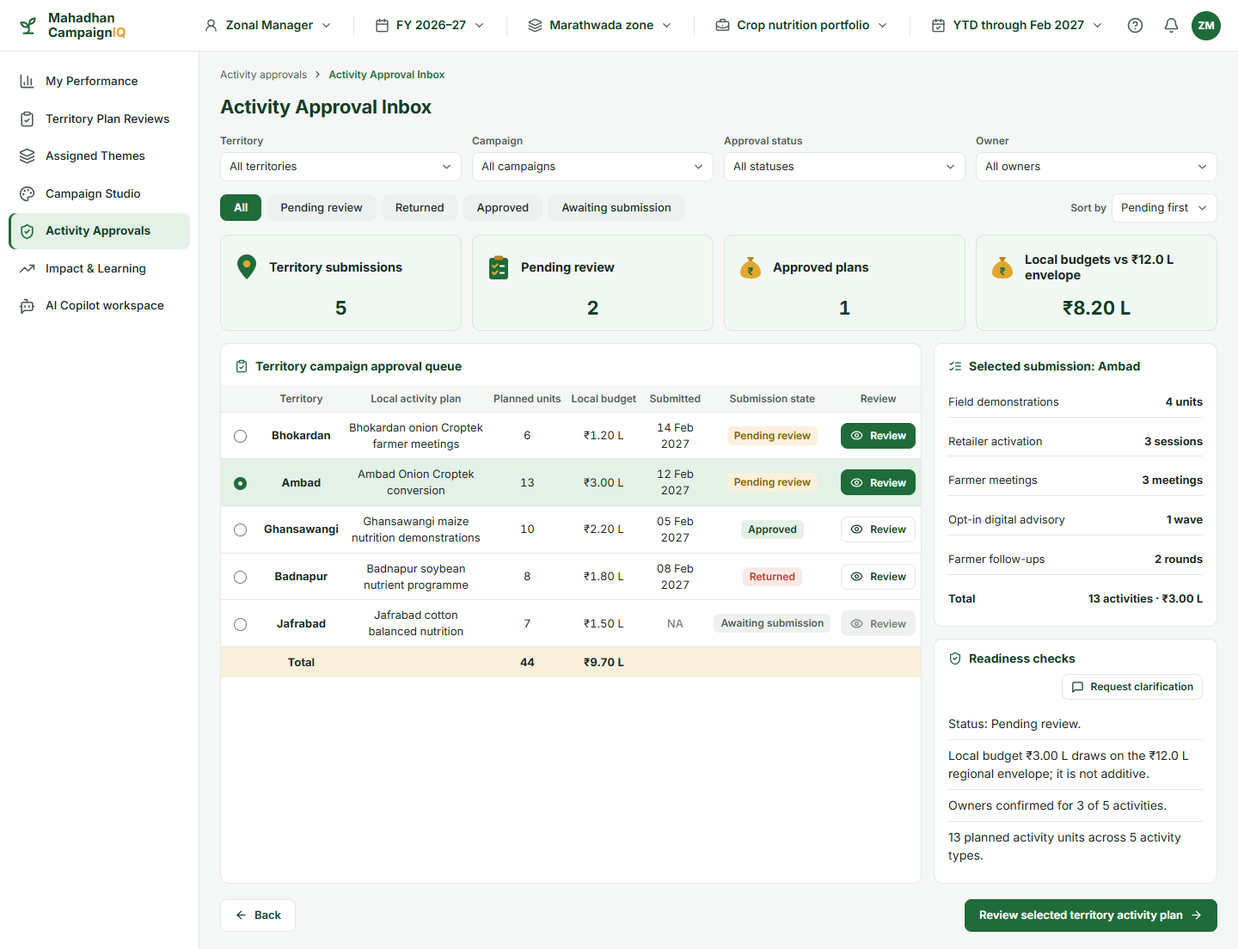
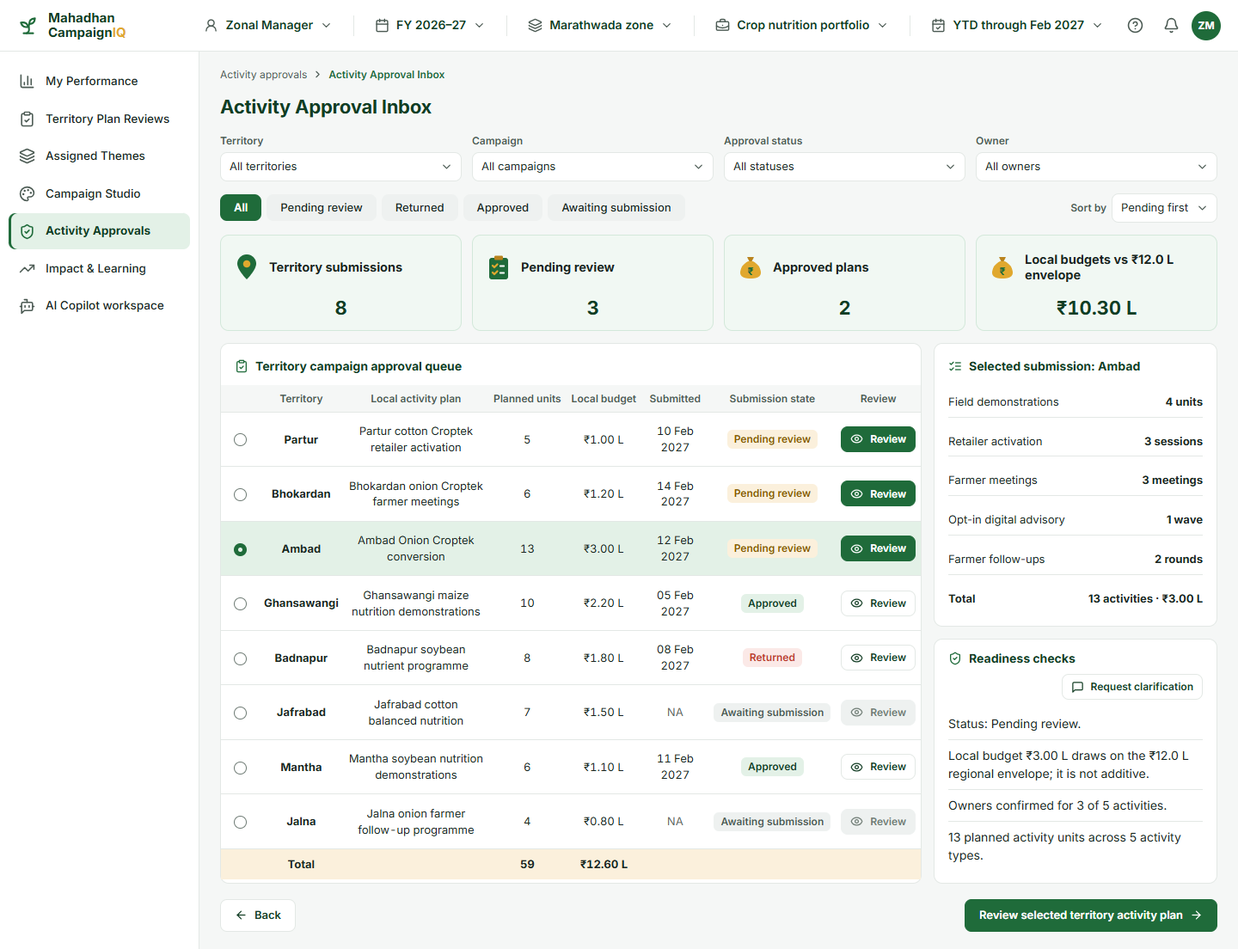
Zone: 8 Jalna territories, fuller approval queue

diff --git a/campaigniq-v3/src/data/zm.ts b/campaigniq-v3/src/data/zm.ts
@@ -3,7 +3,7 @@
  * business case, activity approvals and impact. Figures shared with BH and FSM are read from bh.ts / fsm.ts.
  * Money in ₹ lakh unless noted.
  */
-import type { ZmTerritoryId } from '../routes';
+import type { FsmTerritoryId, ZmTerritoryId } from '../routes';
 import { AMBAD, ambadMetrics, businessCase, campaignById, CONTRIBUTION_MARGIN, netRoi, territoryById } from './bh';
 import { ratio, sum } from './format';
 import { ACTIVITY_DEFAULTS, ACTIVITY_UNITS, budgetMix, CAMPAIGN_ACTIVITIES, campaignFunnel, cropLastYear, cropPlan, FSM_CROPS, impactSummary, interventionEffectiveness, ONION_VILLAGE_PLAN } from './fsm';
@@ -17,19 +17,25 @@ export const ZM_SCOPES: { id: ZmScope; label: string }[] = [
   { id: 'badnapur', label: 'Badnapur' },
   { id: 'jafrabad', label: 'Jafrabad' },
   { id: 'bhokardan', label: 'Bhokardan' },
+  { id: 'partur', label: 'Partur' },
+  { id: 'mantha', label: 'Mantha' },
+  { id: 'jalna', label: 'Jalna' },
 ];
 
 export const ZM_PORTFOLIOS = [{ id: 'crop-nutrition', label: 'Crop nutrition portfolio' }] as const;
 export type ZmPortfolio = (typeof ZM_PORTFOLIOS)[number]['id'];
 
 export const ZONE_NAME = 'Marathwada zone';
-export const ZM_TERRITORY_IDS: ZmTerritoryId[] = ['ambad', 'ghansawangi', 'badnapur', 'jafrabad', 'bhokardan'];
-const ZM_NAME: Record<ZmTerritoryId, string> = { ambad: 'Ambad', ghansawangi: 'Ghansawangi', badnapur: 'Badnapur', jafrabad: 'Jafrabad', bhokardan: 'Bhokardan' };
+export const ZM_TERRITORY_IDS: ZmTerritoryId[] = ['ambad', 'ghansawangi', 'badnapur', 'jafrabad', 'bhokardan', 'partur', 'mantha', 'jalna'];
+const ZM_NAME: Record<ZmTerritoryId, string> = { ambad: 'Ambad', ghansawangi: 'Ghansawangi', badnapur: 'Badnapur', jafrabad: 'Jafrabad', bhokardan: 'Bhokardan', partur: 'Partur', mantha: 'Mantha', jalna: 'Jalna' };
 export const zmTerritoryName = (t: ZmTerritoryId) => ZM_NAME[t];
+/** Named Field Sales Managers where known. */
+const FSM_NAMES: Partial<Record<ZmTerritoryId, string>> = { partur: 'A. Deshmukh', mantha: 'K. More', jalna: 'V. Shinde' };
+export const fsmOwner = (t: ZmTerritoryId) => `Field Sales Manager · ${ZM_NAME[t]}${FSM_NAMES[t] ? ` (${FSM_NAMES[t]})` : ''}`;
 
 // ---------------------------------------------------------------- zone territories (all-product ABP, from BH)
 /** Last-year all-product sales; Ambad, Ghansawangi and Badnapur match the Field Sales Manager cluster. */
-const ZONE_LAST_YEAR: Record<ZmTerritoryId, number> = { ambad: 320, ghansawangi: 280, badnapur: 200, jafrabad: 150, bhokardan: 135 };
+const ZONE_LAST_YEAR: Record<ZmTerritoryId, number> = { ambad: 320, ghansawangi: 280, badnapur: 200, jafrabad: 150, bhokardan: 135, partur: 78, mantha: 70, jalna: 80 };
 
 export const zoneTerritories = () => ZM_TERRITORY_IDS.map((id) => {
   const t = territoryById(id)!;
@@ -53,11 +59,11 @@ export const CATEGORIES: { id: CategoryId; name: string }[] = [
   { id: 'specialty', name: 'Specialty Nutrition' },
 ];
 
-/** Portfolio split by territory (Ambad, Ghansawangi, Badnapur, Jafrabad, Bhokardan); rows sum to the zone figures. */
+/** Portfolio split by territory (Ambad, Ghansawangi, Badnapur, Jafrabad, Bhokardan, Partur, Mantha, Jalna); rows sum to the zone figures. */
 const PORTFOLIO_SPLIT: Record<CategoryId, { lastYear: number[]; abp: number[]; ytd: number[] }> = {
-  croptek: { lastYear: [140, 38, 27, 20, 15], abp: [190, 50, 35, 25, 20], ytd: [162, 42, 29, 21, 16] },
-  'water-soluble': { lastYear: [38, 42, 29, 23, 18], abp: [45, 50, 35, 28, 22], ytd: [39, 43, 31, 25, 20] },
-  specialty: { lastYear: [22, 23, 18, 14, 13], abp: [25, 25, 20, 16, 14], ytd: [21, 22, 17, 14, 12] },
+  croptek: { lastYear: [140, 38, 27, 20, 15, 12, 10, 14], abp: [190, 50, 35, 25, 20, 16, 14, 18], ytd: [162, 42, 29, 21, 16, 14, 12, 15] },
+  'water-soluble': { lastYear: [38, 42, 29, 23, 18, 10, 9, 9], abp: [45, 50, 35, 28, 22, 12, 11, 11], ytd: [39, 43, 31, 25, 20, 11, 10, 10] },
+  specialty: { lastYear: [22, 23, 18, 14, 13, 6, 5, 6], abp: [25, 25, 20, 16, 14, 7, 6, 7], ytd: [21, 22, 17, 14, 12, 6, 5, 6] },
 };
 
 export const portfolioCell = (c: CategoryId, t: ZmTerritoryId) => {
@@ -107,13 +113,17 @@ export const PLAN_STATUS_LABEL: Record<PlanStatus, string> = {
 };
 
 /** Crop split of each territory plan (Onion, Maize, Other crops). FSM territories read the FSM crop plan. */
-const OTHER_CROP_PLAN: Record<'jafrabad' | 'bhokardan', { lastYear: number[]; abp: number[]; proposed: number[] }> = {
+type OtherPlanTerritory = 'jafrabad' | 'bhokardan' | 'partur' | 'mantha' | 'jalna';
+const OTHER_CROP_PLAN: Record<OtherPlanTerritory, { lastYear: number[]; abp: number[]; proposed: number[] }> = {
   jafrabad: { lastYear: [54, 46, 50], abp: [65, 55, 60], proposed: [60, 52, 60] },
   bhokardan: { lastYear: [42, 44, 49], abp: [50, 52, 58], proposed: [45, 50, 55] },
+  partur: { lastYear: [26, 24, 28], abp: [30, 28, 32], proposed: [28, 27, 31] },
+  mantha: { lastYear: [23, 22, 24], abp: [27, 25, 28], proposed: [25, 24, 27] },
+  jalna: { lastYear: [27, 23, 26], abp: [32, 27, 31], proposed: [30, 26, 30] },
 };
 /** Portfolio contribution inside each plan (Croptek, Water Soluble, Specialty Nutrition). */
 const PLAN_PORTFOLIO: Record<ZmTerritoryId, number[]> = {
-  ambad: [190, 40, 22], ghansawangi: [48, 46, 23], badnapur: [33, 32, 18], jafrabad: [25, 26, 15], bhokardan: [19, 20, 13],
+  ambad: [190, 40, 22], ghansawangi: [48, 46, 23], badnapur: [33, 32, 18], jafrabad: [25, 26, 15], bhokardan: [19, 20, 13], partur: [16, 12, 7], mantha: [14, 11, 6], jalna: [18, 11, 7],
 };
 export const planPortfolio = (t: ZmTerritoryId) => CATEGORIES.map((c, i) => ({ ...c, abp: portfolioCell(c.id, t).abp, contribution: PLAN_PORTFOLIO[t][i] }));
 export const planContribution = (t: ZmTerritoryId) => sum(PLAN_PORTFOLIO[t], (x) => x);
@@ -121,8 +131,8 @@ export const planContribution = (t: ZmTerritoryId) => sum(PLAN_PORTFOLIO[t], (x)
 /** SKU mapping: base validation status and SKU lines without a portfolio category (₹ L). */
 export type MappingStatus = 'validated' | 'needs_review' | 'awaiting' | 'requested';
 export const MAPPING_STATUS_LABEL: Record<MappingStatus, string> = { validated: 'Validated', needs_review: 'Review required', awaiting: 'Awaiting submission', requested: 'Mapping correction requested' };
-const BASE_MAPPING: Record<ZmTerritoryId, MappingStatus> = { ambad: 'needs_review', ghansawangi: 'awaiting', badnapur: 'awaiting', jafrabad: 'validated', bhokardan: 'needs_review' };
-export const UNMAPPED_SKU: Record<ZmTerritoryId, number> = { ambad: 6, ghansawangi: 0, badnapur: 0, jafrabad: 0, bhokardan: 3 };
+const BASE_MAPPING: Record<ZmTerritoryId, MappingStatus> = { ambad: 'needs_review', ghansawangi: 'awaiting', badnapur: 'awaiting', jafrabad: 'validated', bhokardan: 'needs_review', partur: 'validated', mantha: 'validated', jalna: 'awaiting' };
+export const UNMAPPED_SKU: Record<ZmTerritoryId, number> = { ambad: 6, ghansawangi: 0, badnapur: 0, jafrabad: 0, bhokardan: 3, partur: 0, mantha: 0, jalna: 0 };
 export const mappingStatus = (t: ZmTerritoryId, overrides: Partial<Record<ZmTerritoryId, MappingStatus>> = {}): MappingStatus => overrides[t] ?? BASE_MAPPING[t];
 export const MAPPING_CHECKS: { id: string; label: string }[] = [
   { id: 'sku-ids', label: 'SKU identifiers present' },
@@ -135,20 +145,21 @@ export const MAPPING_CHECKS: { id: string; label: string }[] = [
 /** Checks already passed before review (by territory). */
 export const BASE_CHECKS: Record<ZmTerritoryId, string[]> = {
   ambad: ['basis', 'dates', 'complete'], ghansawangi: [], badnapur: [], jafrabad: MAPPING_CHECKS.map((c) => c.id), bhokardan: ['sku-ids', 'basis', 'dates'],
+  partur: MAPPING_CHECKS.map((c) => c.id), mantha: MAPPING_CHECKS.map((c) => c.id), jalna: [],
 };
 
 /** Crop and season shares of portfolio sales (%), used by the My Performance filters. */
 export const PORTFOLIO_CROP_SHARE: Record<string, number> = { Onion: 45, Maize: 25, 'Other crops': 30 };
 export const PORTFOLIO_SEASON_SHARE: Record<string, number> = { Kharif: 55, Rabi: 45 };
 /** Croptek SKU contribution inside each plan. */
-const CROPTEK_SKU: Record<ZmTerritoryId, number> = { ambad: 190, ghansawangi: 48, badnapur: 33, jafrabad: 25, bhokardan: 19 };
+const CROPTEK_SKU: Record<ZmTerritoryId, number> = { ambad: 190, ghansawangi: 48, badnapur: 33, jafrabad: 25, bhokardan: 19, partur: 16, mantha: 14, jalna: 18 };
 /** Status before any action in this session; FSM territories follow the FSM store once submitted there. */
-const BASE_STATUS: Record<ZmTerritoryId, PlanStatus> = { ambad: 'submitted', ghansawangi: 'awaiting', badnapur: 'awaiting', jafrabad: 'endorsed', bhokardan: 'submitted' };
+const BASE_STATUS: Record<ZmTerritoryId, PlanStatus> = { ambad: 'submitted', ghansawangi: 'awaiting', badnapur: 'awaiting', jafrabad: 'endorsed', bhokardan: 'submitted', partur: 'submitted', mantha: 'endorsed', jalna: 'awaiting' };
 const FSM_PLAN_TERRITORIES: ZmTerritoryId[] = ['ambad', 'ghansawangi', 'badnapur'];
 
-export const planCrops = (t: ZmTerritoryId) => (t === 'jafrabad' || t === 'bhokardan'
-  ? FSM_CROPS.map((crop, i) => ({ crop, lastYear: OTHER_CROP_PLAN[t].lastYear[i], abp: OTHER_CROP_PLAN[t].abp[i], proposed: OTHER_CROP_PLAN[t].proposed[i] }))
-  : cropPlan(t).map((c, i) => ({ ...c, lastYear: cropLastYear(t)[i] })))
+export const planCrops = (t: ZmTerritoryId) => (t in OTHER_CROP_PLAN
+  ? FSM_CROPS.map((crop, i) => { const o = OTHER_CROP_PLAN[t as OtherPlanTerritory]; return { crop, lastYear: o.lastYear[i], abp: o.abp[i], proposed: o.proposed[i] }; })
+  : cropPlan(t as FsmTerritoryId).map((c, i) => ({ ...c, lastYear: cropLastYear(t as FsmTerritoryId)[i] })))
   .map((c) => ({ ...c, growthPct: ratio(c.proposed - c.lastYear, c.lastYear) }));
 
 /** Plan status: ZM decisions win; otherwise an FSM submission marks it received; otherwise the base status. */
@@ -536,6 +547,9 @@ export const approvalQueue = () => {
     { territory: 'badnapur' as ZmTerritoryId, campaign: 'Badnapur soybean nutrient programme', owner: 'Field Sales Manager · Badnapur', units: 8, budget: 1.8, submitted: '08 Feb 2027', status: 'returned' as ApprovalStatus },
     { territory: 'jafrabad' as ZmTerritoryId, campaign: 'Jafrabad cotton balanced nutrition', owner: 'Field Sales Manager · Jafrabad', units: 7, budget: 1.5, submitted: 'NA', status: 'awaiting' as ApprovalStatus },
     { territory: 'bhokardan' as ZmTerritoryId, campaign: 'Bhokardan onion Croptek farmer meetings', owner: 'Field Sales Manager · Bhokardan', units: 6, budget: 1.2, submitted: '14 Feb 2027', status: 'pending' as ApprovalStatus },
+    { territory: 'partur' as ZmTerritoryId, campaign: 'Partur cotton Croptek retailer activation', owner: fsmOwner('partur'), units: 5, budget: 1.0, submitted: '10 Feb 2027', status: 'pending' as ApprovalStatus },
+    { territory: 'mantha' as ZmTerritoryId, campaign: 'Mantha soybean nutrition demonstrations', owner: fsmOwner('mantha'), units: 6, budget: 1.1, submitted: '11 Feb 2027', status: 'approved' as ApprovalStatus },
+    { territory: 'jalna' as ZmTerritoryId, campaign: 'Jalna onion farmer follow-up programme', owner: fsmOwner('jalna'), units: 4, budget: 0.8, submitted: 'NA', status: 'awaiting' as ApprovalStatus },
   ];
 };
 /** Regional campaign envelope (C1 investment) that local plans draw on. */
@@ -554,8 +568,13 @@ export const territoryActivityPlan = (t: ZmTerritoryId): PlanActivity[] => {
     for (let k = 0; left > 0; k = (k + 1) % order.length, left--) base[order[k][1]] += step;
     return base.map((b) => Math.round(b / step) * step);
   };
-  const unitSplit = split(q.units, CAMPAIGN_ACTIVITIES.map((a) => a.units), 1, 1);
-  const budgetSplit = split(Math.round(q.budget * 100), CAMPAIGN_ACTIVITIES.map((a) => a.cost), 1, 1).map((x) => x / 100);
+  // With fewer units than activities, the lowest-weight activities are left out of the plan.
+  const keepIdx = CAMPAIGN_ACTIVITIES.map((a, i) => [a.units, i] as const).sort((x, y) => y[0] - x[0]).slice(0, Math.min(q.units, CAMPAIGN_ACTIVITIES.length)).map(([, i]) => i);
+  const kept = CAMPAIGN_ACTIVITIES.filter((_, i) => keepIdx.includes(i));
+  const unitKept = split(q.units, kept.map((a) => a.units), 1, 1);
+  const budgetKept = split(Math.round(q.budget * 100), kept.map((a) => a.cost), 1, 1).map((x) => x / 100);
+  const unitSplit = CAMPAIGN_ACTIVITIES.map((a) => (kept.includes(a) ? unitKept[kept.indexOf(a)] : 0));
+  const budgetSplit = CAMPAIGN_ACTIVITIES.map((a) => (kept.includes(a) ? budgetKept[kept.indexOf(a)] : 0));
   return CAMPAIGN_ACTIVITIES.map((a, i) => {
     const def = ACTIVITY_DEFAULTS[a.id];
     if (t === 'ambad') {
@@ -566,7 +585,7 @@ export const territoryActivityPlan = (t: ZmTerritoryId): PlanActivity[] => {
     }
     const units = unitSplit[i];
     return { id: a.id, name: a.name, units, unitLabel: a.unitLabel, budget: budgetSplit[i], villages: [{ village: `${zmTerritoryName(t)} HQ`, units }], timing: def.timing, owner: `${zmTerritoryName(t)} field team`, ownerReady: false };
-  });
+  }).filter((a) => a.units > 0);
 };
 export const ACTIVITY_CHECKS = [
   'Product / crop / region scope', 'Crop-stage / agronomy timing', 'Activity owner confirmation', 'Stock availability (Croptek)',

diff --git a/campaigniq-v3/src/data/zm.test.ts b/campaigniq-v3/src/data/zm.test.ts
@@ -18,23 +18,23 @@ const r2 = (x: number) => Math.round(x * 100) / 100;
 describe('zone', () => {
   it('territories match BH and sum to the zone', () => {
     const z = zoneTerritories();
-    expect(z.map((t) => [t.abp, t.ytdSales])).toEqual([[420, 362], [340, 295], [240, 210], [180, 166], [160, 148]]);
-    expect(zoneTotal().abp).toBe(1340);
+    expect(z.map((t) => [t.abp, t.ytdSales])).toEqual([[420, 362], [340, 295], [240, 210], [180, 166], [160, 148], [90, 83], [80, 74], [90, 82]]);
+    expect(zoneTotal().abp).toBe(1600);
     expect(zoneTotal().ytdSales).toBe(sum(z, (t) => t.ytdSales));
   });
-  it('BH West = zone + Aurangabad = ₹16.0 Cr / ₹14.2 Cr', () => {
+  it('BH West = the 8 zone territories = ₹16.0 Cr / ₹14.2 Cr', () => {
     const w = territoriesOf('west');
     const rest = w.filter((t) => !ZM_TERRITORY_IDS.includes(t.id as never));
-    expect(rest.map((t) => [t.id, t.abp, t.ytdSales])).toEqual([['aurangabad', 260, 239]]);
+    expect(rest).toEqual([]);
     expect([sum(w, (t) => t.abp), sum(w, (t) => t.ytdSales)]).toEqual([1600, 1420]);
   });
 });
 
 describe('crop nutrition portfolio', () => {
   it('category totals and growth', () => {
-    expect(portfolioRows().map((r) => [r.lastYear, r.abp, r1(r.growthPct)])).toEqual([[240, 320, 33.3], [150, 180, 20], [90, 100, 11.1]]);
+    expect(portfolioRows().map((r) => [r.lastYear, r.abp, r1(r.growthPct)])).toEqual([[276, 368, 33.3], [178, 214, 20.2], [107, 120, 12.1]]);
     const t = portfolioTotal();
-    expect([t.lastYear, t.abp, r1(t.growthPct)]).toEqual([480, 600, 25]);
+    expect([t.lastYear, t.abp, r1(t.growthPct)]).toEqual([561, 702, 25.1]);
   });
   it('territory split sums to each category and to the total', () => {
     for (const c of CATEGORIES) {
@@ -42,7 +42,7 @@ describe('crop nutrition portfolio', () => {
       expect(sum(ZM_TERRITORY_IDS, (t) => portfolioRows(t).find((r) => r.id === c.id)!.abp)).toBe(zone.abp);
       expect(sum(ZM_TERRITORY_IDS, (t) => portfolioRows(t).find((r) => r.id === c.id)!.lastYear)).toBe(zone.lastYear);
     }
-    expect(sum(portfolioByTerritory(), (t) => t.abp)).toBe(600);
+    expect(sum(portfolioByTerritory(), (t) => t.abp)).toBe(702);
   });
 });
 
@@ -56,7 +56,7 @@ describe('territory plans', () => {
   });
   it('statuses: Ambad received from FSM, one endorsed, one pending, two awaiting', () => {
     const st = ZM_TERRITORY_IDS.map((t) => planStatus(t, ['ambad']));
-    expect(st).toEqual(['submitted', 'awaiting', 'awaiting', 'endorsed', 'submitted']);
+    expect(st).toEqual(['submitted', 'awaiting', 'awaiting', 'endorsed', 'submitted', 'submitted', 'endorsed', 'awaiting']);
     expect(planStatus('ghansawangi', ['ambad', 'ghansawangi'])).toBe('submitted');
     expect(planStatus('ambad', [], { ambad: 'endorsed' })).toBe('endorsed');
     expect(territoryPlans().every((p) => p.plan > 0 && p.plan <= p.abp)).toBe(true);
@@ -120,9 +120,9 @@ describe('impact', () => {
 });
 
 describe('plan reviews (screens 1–5)', () => {
-  it('plan portfolio contributions stay within each category ABP and total ₹5.70 Cr', () => {
+  it('plan portfolio contributions stay within each category ABP and total ₹6.72 Cr', () => {
     for (const t of ZM_TERRITORY_IDS) for (const c of planPortfolio(t)) expect(c.contribution).toBeLessThanOrEqual(c.abp);
-    expect(sum(ZM_TERRITORY_IDS, planContribution)).toBe(570);
+    expect(sum(ZM_TERRITORY_IDS, planContribution)).toBe(672);
     expect(planPortfolio('ambad')[0].contribution).toBe(territoryPlan('ambad').croptekSku);
   });
   it('crop growth uses last-year sales per crop', () => {
@@ -204,9 +204,10 @@ describe('activity approvals (screens 20–21)', () => {
       expect(p.every((a) => a.units >= 1)).toBe(true);
     }
   });
-  it('local budgets stay within the ₹12.0 L regional envelope; 7 checks, 3 exception types', () => {
+  it('8 local plans total 59 units / ₹12.60 L against the ₹12.0 L regional envelope; 7 checks, 3 exception types', () => {
     expect(REGIONAL_ENVELOPE()).toBe(12);
-    expect(sum(approvalQueue(), (q) => q.budget)).toBeLessThanOrEqual(12);
+    expect(approvalQueue().length).toBe(8);
+    expect([sum(approvalQueue(), (q) => q.units), r2(sum(approvalQueue(), (q) => q.budget))]).toEqual([59, 12.6]);
     expect([ACTIVITY_CHECKS.length, PLAN_EXCEPTIONS.length]).toEqual([7, 3]);
   });
 });

diff --git a/campaigniq-v3/src/data/mh.ts b/campaigniq-v3/src/data/mh.ts
@@ -9,7 +9,7 @@ import { ratio, sum } from './format';
 import { coverageCalc, ONION_VILLAGE_PLAN } from './fsm';
 import {
   approvalQueue, businessCaseC1, businessCaseC2, CROPTEK_EVIDENCE, impactRows, REGIONAL_ENVELOPE, scenariosFor, territoryPlan, trialToPurchasePct,
-  ZM_TERRITORY_IDS, zmTerritoryName,
+  fsmOwner, ZM_TERRITORY_IDS, zmTerritoryName,
 } from './zm';
 
 // ---------------------------------------------------------------- regions (national view)
@@ -212,10 +212,9 @@ export type RolloutStatus = 'running' | 'eligible' | 'pending' | 'not_eligible';
 export const ROLLOUT_LABEL: Record<RolloutStatus, string> = { running: 'Running', eligible: 'Eligible', pending: 'Plan pending', not_eligible: 'Not eligible' };
 export const rolloutTerritories = () => {
   const q = approvalQueue();
-  const base: Record<string, RolloutStatus> = { ambad: 'running', ghansawangi: 'eligible', badnapur: 'pending', jafrabad: 'pending', bhokardan: 'eligible' };
+  const base: Record<string, RolloutStatus> = { ambad: 'running', ghansawangi: 'eligible', badnapur: 'pending', jafrabad: 'pending', bhokardan: 'eligible', partur: 'eligible', mantha: 'eligible', jalna: 'pending' };
   return [
-    ...ZM_TERRITORY_IDS.map((t) => ({ id: t, name: zmTerritoryName(t), fsm: `Field Sales Manager · ${zmTerritoryName(t)}`, budget: q.find((x) => x.territory === t)!.budget, status: base[t] })),
-    { id: 'other', name: 'Other Maharashtra territories', fsm: 'Field Sales Managers (4)', budget: 2.3, status: 'pending' as RolloutStatus },
+    ...ZM_TERRITORY_IDS.map((t) => ({ id: t, name: zmTerritoryName(t), fsm: fsmOwner(t), budget: q.find((x) => x.territory === t)!.budget, status: base[t] })),
   ];
 };
 export const STAGE_COUNTS = [{ stage: 'Published', n: 12 }, { stage: 'Submitted', n: 8 }, { stage: 'Approved', n: 6 }, { stage: 'Running', n: 4 }];

diff --git a/campaigniq-v3/src/data/mh.test.ts b/campaigniq-v3/src/data/mh.test.ts
@@ -4,7 +4,7 @@ import { sum } from './format';
 import { ONION_VILLAGE_PLAN } from './fsm';
 import {
   ambadPlan, ambadVillages, APPROVAL_ITEMS, EVIDENCE_REQUESTS, funnel, NATIONAL_MARKET, nationalRow, nextRequestStatus, proposals, RECOMMENDATIONS,
-  REGION_OPPORTUNITY, regionRows, rolloutTerritories, ROLLOUT_ENVELOPE, STAGE_COUNTS, themeEffectiveness, WEST_STATES, westCampaigns, westSalesTotal,
+  REGION_OPPORTUNITY, regionRows, rolloutTerritories, STAGE_COUNTS, themeEffectiveness, WEST_STATES, westCampaigns, westSalesTotal,
   programmeVariance, INTERVENTION_PERFORMANCE,
 } from './mh';
 import { businessCaseC1, ZM_THEMES, zmImpact } from './zm';
@@ -68,8 +68,9 @@ describe('theme lifecycle and proposals', () => {
 });
 
 describe('rollout and performance', () => {
-  it('rollout budgets fill the ₹12.0 L envelope; Ambad running; stage counts 12 → 8 → 6 → 4', () => {
-    expect(r2(sum(rolloutTerritories(), (t) => t.budget))).toBe(ROLLOUT_ENVELOPE());
+  it('rollout covers the 8 zone territories (₹12.60 L of local plans); Ambad running; stage counts 12 → 8 → 6 → 4', () => {
+    expect(rolloutTerritories().length).toBe(8);
+    expect(r2(sum(rolloutTerritories(), (t) => t.budget))).toBe(12.6);
     expect(rolloutTerritories().find((t) => t.id === 'ambad')!.status).toBe('running');
     expect(STAGE_COUNTS.map((s) => s.n)).toEqual([12, 8, 6, 4]);
   });

diff --git a/campaigniq-v3/src/data/bh.ts b/campaigniq-v3/src/data/bh.ts
@@ -220,7 +220,9 @@ export const TERRITORIES: Territory[] = [
   { id: 'badnapur', name: 'Badnapur', region: 'west', abp: 240, ytdSales: 210, campaigns: 0, activitiesDone: null, activitiesPlanned: null, adopters: null },
   { id: 'jafrabad', name: 'Jafrabad', region: 'west', abp: 180, ytdSales: 166, campaigns: 0, activitiesDone: null, activitiesPlanned: null, adopters: null },
   { id: 'bhokardan', name: 'Bhokardan', region: 'west', abp: 160, ytdSales: 148, campaigns: 0, activitiesDone: null, activitiesPlanned: null, adopters: null },
-  { id: 'aurangabad', name: 'Aurangabad', region: 'west', abp: 260, ytdSales: 239, campaigns: 1, activitiesDone: null, activitiesPlanned: null, adopters: null },
+  { id: 'partur', name: 'Partur', region: 'west', abp: 90, ytdSales: 83, campaigns: 1, activitiesDone: null, activitiesPlanned: null, adopters: null },
+  { id: 'mantha', name: 'Mantha', region: 'west', abp: 80, ytdSales: 74, campaigns: 0, activitiesDone: null, activitiesPlanned: null, adopters: null },
+  { id: 'jalna', name: 'Jalna', region: 'west', abp: 90, ytdSales: 82, campaigns: 0, activitiesDone: null, activitiesPlanned: null, adopters: null },
 ];
 export const territoriesOf = (region: RegionId) => TERRITORIES.filter((t) => t.region === region);
 export const territoryById = (id: string) => TERRITORIES.find((t) => t.id === id);

diff --git a/campaigniq-v3/src/screens/mh/Opportunity.tsx b/campaigniq-v3/src/screens/mh/Opportunity.tsx
@@ -7,7 +7,7 @@ import { useState } from 'react';
 import { AMBAD, NATIONAL, planCampaignsOf, mixBy, type Season } from '../../data/bh';
 import { crore, lakh, num, pct, times } from '../../data/format';
 import { FUNNEL_DEFAULTS } from '../../data/fsm';
-import { planCrops, planStatus as zmPlanStatus } from '../../data/zm';
+import { planCrops, planStatus as zmPlanStatus, ZM_TERRITORY_IDS } from '../../data/zm';
 import { useFsmStore } from '../../store/fsmStore';
 import {
   ambadPlan, ambadVillages, MH_PLAN_LABEL, otherMaharashtra, PREVIOUS_CAMPAIGNS, REGION_OPPORTUNITY, regionName, regionRows, themeEffectiveness, WEST_PLANS,
@@ -489,7 +489,7 @@ export function TerritoryPlanDetail() {
   const mh = useMhStore();
   const zm = useZmStore();
   const { territory } = useParams();
-  const t = (['ambad', 'ghansawangi', 'badnapur', 'jafrabad', 'bhokardan'].includes(territory ?? '') ? territory : 'ambad') as ZmTerritoryId;
+  const t = ((ZM_TERRITORY_IDS as string[]).includes(territory ?? '') ? territory : 'ambad') as ZmTerritoryId;
   const a = ambadPlan();
   const villages = ambadVillages();
   const additionalVillages = AMBAD.villages.filter((record) => !villages.some((plan) => plan.village === record.name));

diff --git a/campaigniq-v3/src/screens/mh/Rollout.tsx b/campaigniq-v3/src/screens/mh/Rollout.tsx
@@ -344,7 +344,7 @@ export function ProgrammePerformance() {
             { key: 'st', header: 'Activation', render: (r) => <StatusChip tone={ROLL_TONE[r.status]}>{ROLLOUT_LABEL[r.status]}</StatusChip> },
             { key: 'prog', header: 'Execution', align: 'right', render: (r) => (r.impact?.done != null ? `${r.impact.done} / ${r.impact.planned}` : <span className="na">NA</span>) },
             { key: 'conf', header: 'Outcome confidence', render: (r) => (r.impact ? <StatusChip tone={CONF_TONE[r.impact.confidence]}>{r.impact.confidence}</StatusChip> : <span className="na">NA</span>) },
-            { key: 'v', header: 'View', render: (r) => (r.id === 'other' ? <span className="na">NA</span> : <Button small onClick={() => go(`${M.drivers(region)}?explore=${r.id}`)}>View</Button>) },
+            { key: 'v', header: 'View', render: (r) => (<Button small onClick={() => go(`${M.drivers(region)}?explore=${r.id}`)}>View</Button>) },
           ]} />
         </Card>
         <div className="stack">

diff --git a/campaigniq-v3/src/data/bh.test.ts b/campaigniq-v3/src/data/bh.test.ts
@@ -85,8 +85,8 @@ describe('territories and Ambad', () => {
     expect(sum(ts, (x) => x.abp)).toBe(1600);
     expect(Math.round(sum(ts, (x) => x.ytdSales))).toBe(1420);
     expect(sum(ts, (x) => x.campaigns)).toBe(4);
-    expect(ts.map((x) => x.id)).toEqual(['ambad', 'ghansawangi', 'badnapur', 'jafrabad', 'bhokardan', 'aurangabad']);
-    expect(ts.map((x) => x.ytdSales)).toEqual([362, 295, 210, 166, 148, 239]);
+    expect(ts.map((x) => x.id)).toEqual(['ambad', 'ghansawangi', 'badnapur', 'jafrabad', 'bhokardan', 'partur', 'mantha', 'jalna']);
+    expect(ts.map((x) => x.ytdSales)).toEqual([362, 295, 210, 166, 148, 83, 74, 82]);
     expect(ts.slice(0, 3).map((x) => x.abp)).toEqual([420, 340, 240]);
   });
   it('Ambad metrics', () => {

diff --git a/campaigniq-v3/src/screens/zm/Approvals.tsx b/campaigniq-v3/src/screens/zm/Approvals.tsx
@@ -64,7 +64,7 @@ export function ApprovalInbox() {
         <KpiCard label={`Local budgets vs ${lakh(REGIONAL_ENVELOPE(), 1)} envelope`} value={l2(committed)} />
       </div>
       <div className="grid" style={{ gridTemplateColumns: 'minmax(0, 1fr) 330px' }}>
-        <Card title="Territory campaign approval queue" icon={ClipboardCheck} flush>
+        <Card title="Territory campaign approval queue" icon={ClipboardCheck} flush className="tbl-fill">
           <DataTable selectable rows={rows} rowKey={(q) => q.territory} selected={sel} onRowClick={(q) => setSel(q.territory)}
             columns={[
               { key: 't', header: 'Territory', render: (q) => <b>{zmTerritoryName(q.territory)}</b> },

diff --git a/campaigniq-v3/src/screens/zm/frame.tsx b/campaigniq-v3/src/screens/zm/frame.tsx
@@ -3,10 +3,11 @@ import { Calculator, FileStack, FileText, Lightbulb, Palette, PenLine, Send, Shi
 import { useParams } from 'react-router-dom';
 import { Z, type ZmTerritoryId } from '../../routes';
 import { StepTabs } from '../../ui/core';
+import { ZM_TERRITORY_IDS } from '../../data/zm';
 import { useGo } from '../common';
 export { FsmPage as ZmPage } from '../fsm/frame';
 
-export const ZM_TERRITORIES: ZmTerritoryId[] = ['ambad', 'ghansawangi', 'badnapur', 'jafrabad', 'bhokardan'];
+export const ZM_TERRITORIES: ZmTerritoryId[] = ZM_TERRITORY_IDS;
 
 /** Territory from the route (`:territory`), Ambad when missing or unknown. */
 export function useZmTerritory(): ZmTerritoryId {

diff --git a/campaigniq-v3/src/routes.ts b/campaigniq-v3/src/routes.ts
@@ -72,7 +72,7 @@ export function fsmNavKeyOf(path: string): FsmNavKey {
 
 /** Persona whose workspace a path belongs to, and each persona's landing page. */
 // ---------------------------------------------------------------- Zonal Manager (mockups: docs/mockups/zonal-manager/<file>)
-export type ZmTerritoryId = 'ambad' | 'ghansawangi' | 'badnapur' | 'jafrabad' | 'bhokardan';
+export type ZmTerritoryId = 'ambad' | 'ghansawangi' | 'badnapur' | 'jafrabad' | 'bhokardan' | 'partur' | 'mantha' | 'jalna';
 export const Z = {
   performance: '/zm/performance', // 1  ZM.1.png
   plans: '/zm/plans', // 2  ZM.1a.png

diff --git a/campaigniq-v3/src/styles.css b/campaigniq-v3/src/styles.css
@@ -411,3 +411,6 @@ textarea.input { height: auto; min-height: 60px; padding: 8px 10px; resize: vert
 .tbl th.col-on, .tbl td.col-on { background: var(--tint); font-weight: 700; }
 .tbl tbody tr.on td { background: var(--tint); }
 .bridge-value { font-size: 18px; font-weight: 700; color: var(--dark); font-variant-numeric: tabular-nums; }
+/* Table spreads its rows over the card height (no empty space under the last row). */
+.card.tbl-fill .card-body > .tbl { flex: 1; height: 100%; }
+.card.tbl-fill .card-body > .tbl thead tr, .card.tbl-fill .card-body > .tbl tr.total { height: 1px; }
